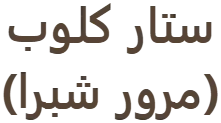
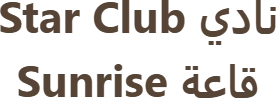
دعوة wImbSsn: تحت علامة اللوكيشن نادي Star Club / قاعة Sunrise، العنوان أمام مكتب تراخيص مرور شبرا الخيمة، وشيل سطر الباركينج
Claude-Session: https://claude.ai/code/session_01VKo1mCg4U4XatxSLATVCTJ

diff --git a/custom-invitations/wImbSsn.js b/custom-invitations/wImbSsn.js
@@ -8,7 +8,8 @@
 //    الكلام اللي زي ما هو مقصوص من الفيديو نفسه سطر سطر (نفس الخط والمكان)، والجديد (لديسمبر، التاريخ، الأسامي، الحرفين،
 //    التفاصيل) صور مولّدة بأقرب خطوط (Mirza / Courier New Bold / Segoe UI Bold زي الفيديو / Aref Ruqaa ذهبي للأسامي) —
 //    scratch wim/gen. الأماكن في wImbSsn-elements.json (إحداثيات كادر الفيديو 720×1280).
-//  • أيقونة المكان واسم القاعة → لوكيشن جوجل ماب.
+//  • أيقونة المكان واسم القاعة → لوكيشن جوجل ماب. (المالك 2026-11-25) تحت العلامة: نادي Star Club / قاعة Sunrise،
+//    وتحتهم العنوان (أمام مكتب تراخيص مرور شبرا الخيمة)؛ سطر الباركينج اتشال.
 const fs = require('fs');
 const path = require('path');
 const { asset } = require('./_asset');
@@ -44,7 +45,7 @@ module.exports = {
     overrideImage: true,
     title: 'دعوة زفاف محمود وإيمان 🤍',
     // (المالك 2026-11-25) كارت شيك: كارت الحرفين وكارت الأسامي جنب بعض على الساتان + كلام حلو تحت العنوان
-    description: 'بكل الحب ندعوكم لمشاركتنا فرحة العمر 🤍 الخميس ٣١ ديسمبر ٢٠٢٦ · ليلة رأس السنة · ٨:٣٠ مساءً · ستار كلوب، مرور شبرا',
+    description: 'بكل الحب ندعوكم لمشاركتنا فرحة العمر 🤍 الخميس ٣١ ديسمبر ٢٠٢٦ · ليلة رأس السنة · ٨:٣٠ مساءً · نادي Star Club · قاعة Sunrise · أمام مكتب تراخيص مرور شبرا الخيمة',
   },
 
   render() {
